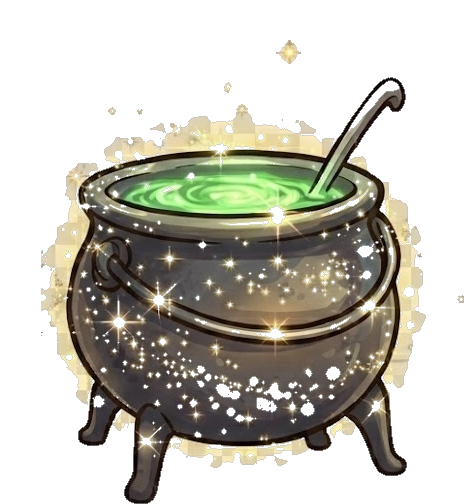
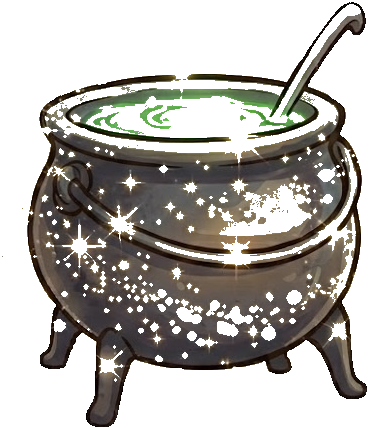
Force landscape on mobile and clean cauldron-sparkle asset
- Add rotate overlay for portrait mobile with animated prompt
- Remove white/beige halo from cauldron-sparkle.png

diff --git a/style.css b/style.css
@@ -58,7 +58,7 @@ body {
   bottom: 5%;
   left: 50%;
   transform: translateX(-50%);
-  width: clamp(280px, 38vw, 500px);
+  width: clamp(280px, 39vw, 500px);
   height: auto;
   z-index: 1;
   pointer-events: none;
@@ -732,6 +732,46 @@ body {
 .btn-menu:hover {
   border-color: var(--accent-gold);
   transform: translateY(-2px);
+}
+
+/* ===== Force Landscape on Mobile ===== */
+#rotate-overlay {
+  display: none;
+  position: fixed;
+  inset: 0;
+  z-index: 9999;
+  background: var(--bg-dark);
+  justify-content: center;
+  align-items: center;
+}
+
+.rotate-content {
+  text-align: center;
+  color: var(--text-light);
+  font-family: var(--font-title);
+}
+
+.rotate-icon {
+  font-size: 4rem;
+  animation: rotatePhone 2s ease-in-out infinite;
+}
+
+.rotate-content p {
+  font-size: 1.4rem;
+  margin-top: 1rem;
+  color: var(--accent-gold);
+}
+
+@keyframes rotatePhone {
+  0%, 100% { transform: rotate(0deg); }
+  50% { transform: rotate(90deg); }
+}
+
+@media (max-height: 500px) and (orientation: portrait),
+       (orientation: portrait) and (max-width: 900px) {
+  #rotate-overlay {
+    display: flex;
+  }
 }
 
 /* ===== Responsive ===== */

diff --git a/index.html b/index.html
@@ -109,6 +109,14 @@
       </div>
     </div>
 
+    <!-- Rotate overlay (portrait mobile) -->
+    <div id="rotate-overlay">
+      <div class="rotate-content">
+        <div class="rotate-icon">📱</div>
+        <p>Tourne ton écran en paysage !</p>
+      </div>
+    </div>
+
     <script src="script.js"></script>
   </body>
 </html>
